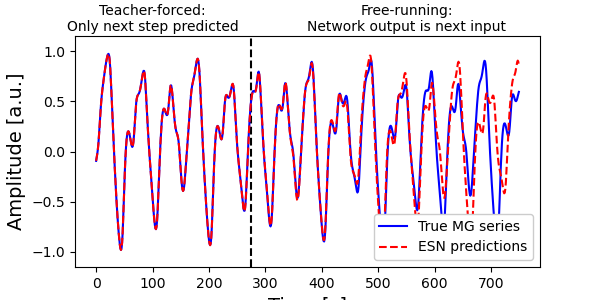
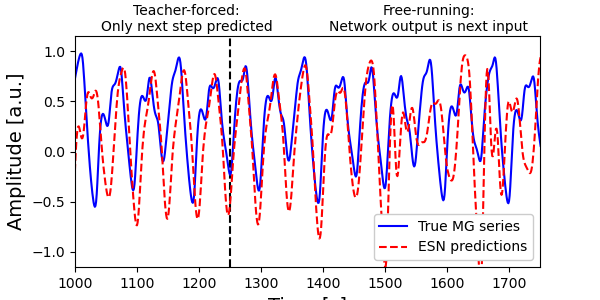
fix mg random initialization

diff --git a/ESN/mackey_glass.py b/ESN/mackey_glass.py
@@ -14,10 +14,10 @@ def MackeyGlassGenerator(tau=17, n=1000, beta=0.2, gamma=0.1, n_samples=5000, dt
     if seed:
         np.random.seed(seed)
 
-    history_len = tau * 10
+    history_len = tau * 1
     values = np.random.rand(history_len + n)
 
-    values[:history_len] = 1.1
+    #values[:history_len] = 1.1
 
     delay_steps = int(tau / dt)
     if delay_steps <= 0:
